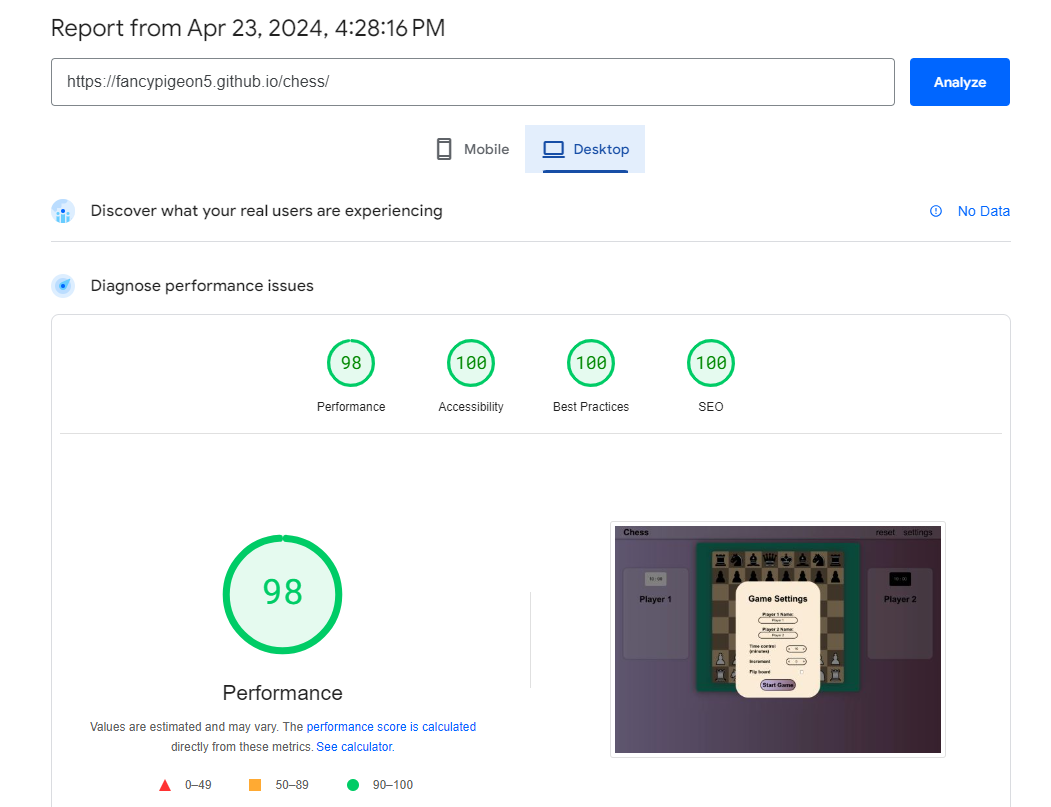
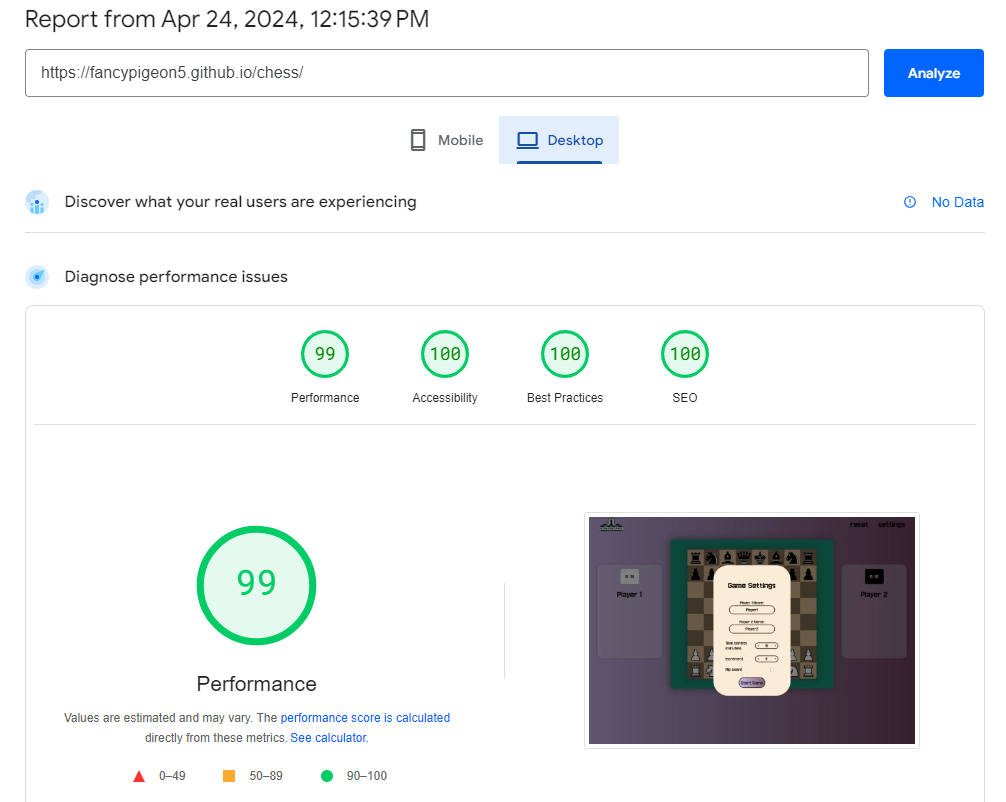
updating readme to latest style changes

diff --git a/assets/css/style.css b/assets/css/style.css
@@ -181,7 +181,7 @@ input[type='checkbox'] {
 #start-game {
     margin: .5em;
     cursor: pointer;
-    font-size: x-large;
+    font-size: 1.5em;
     color: black;
     padding: .3em;
     border-radius: 2em;
